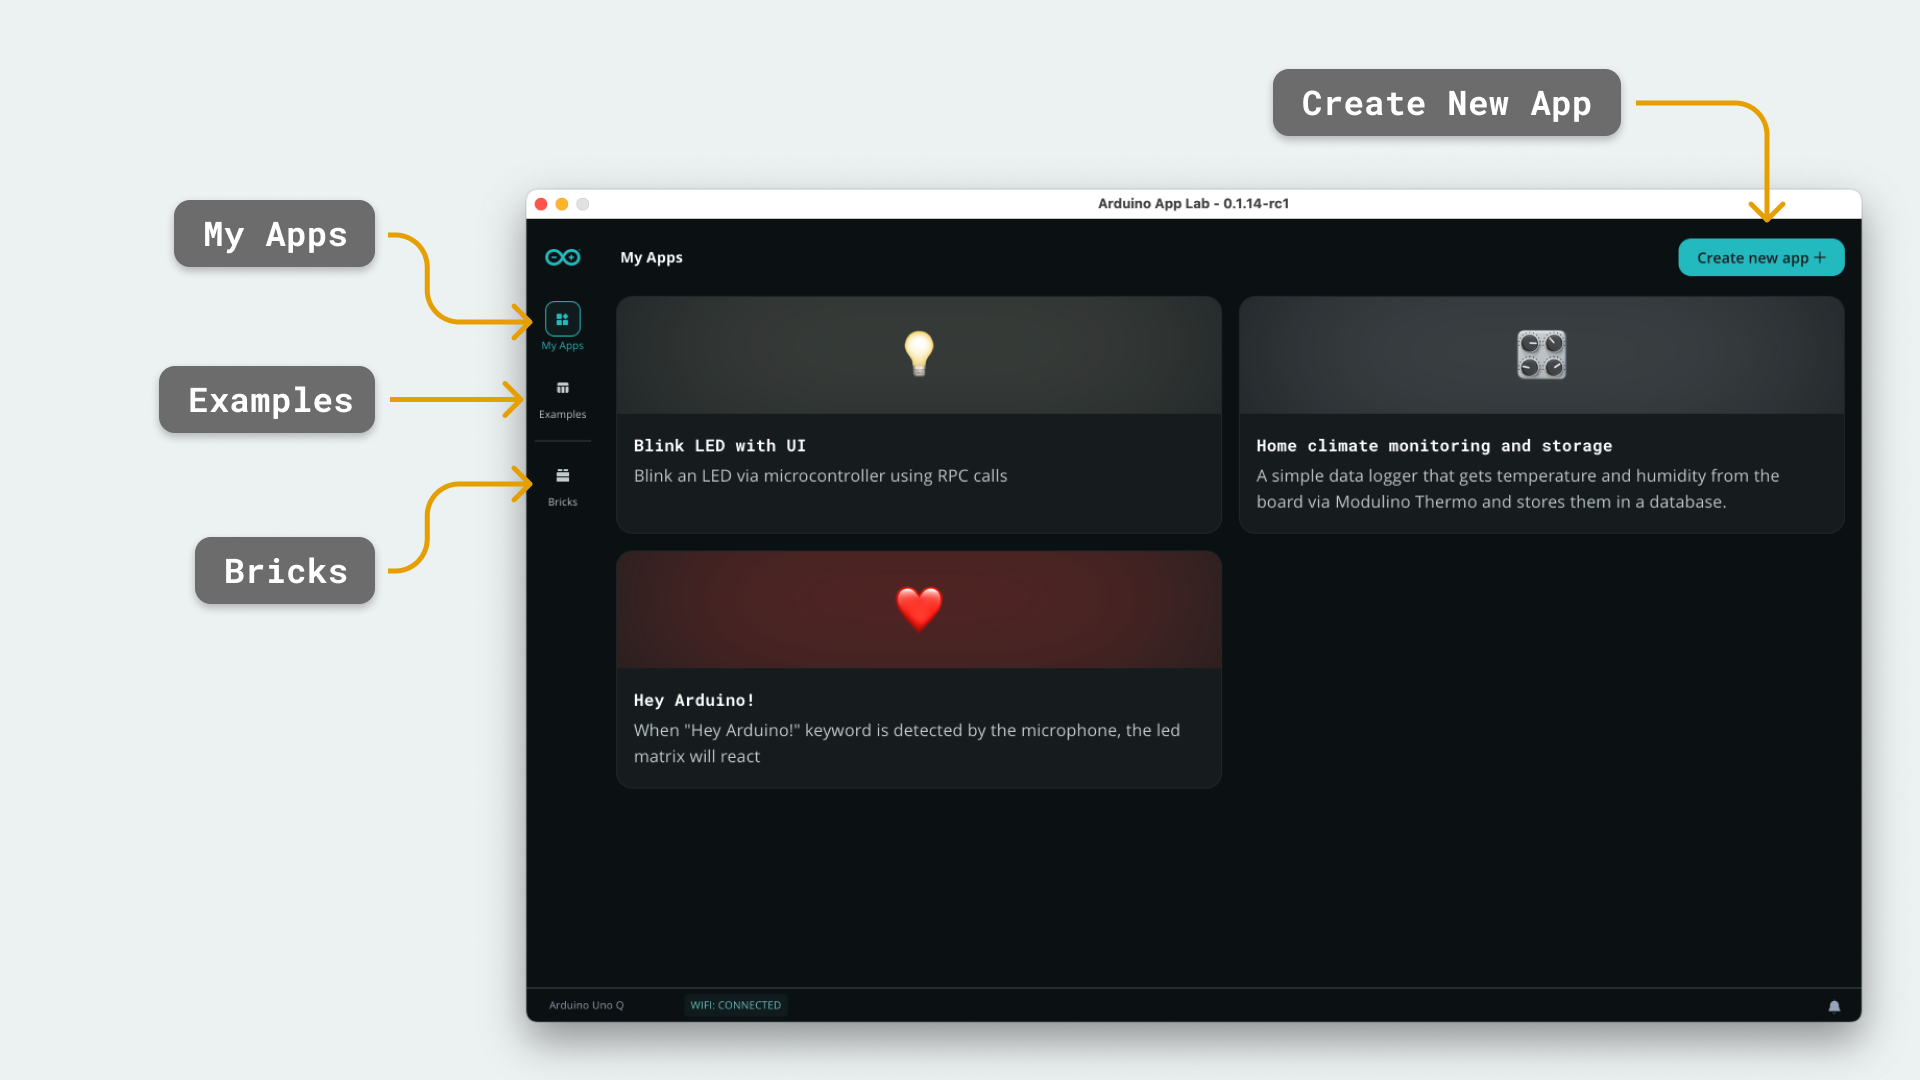
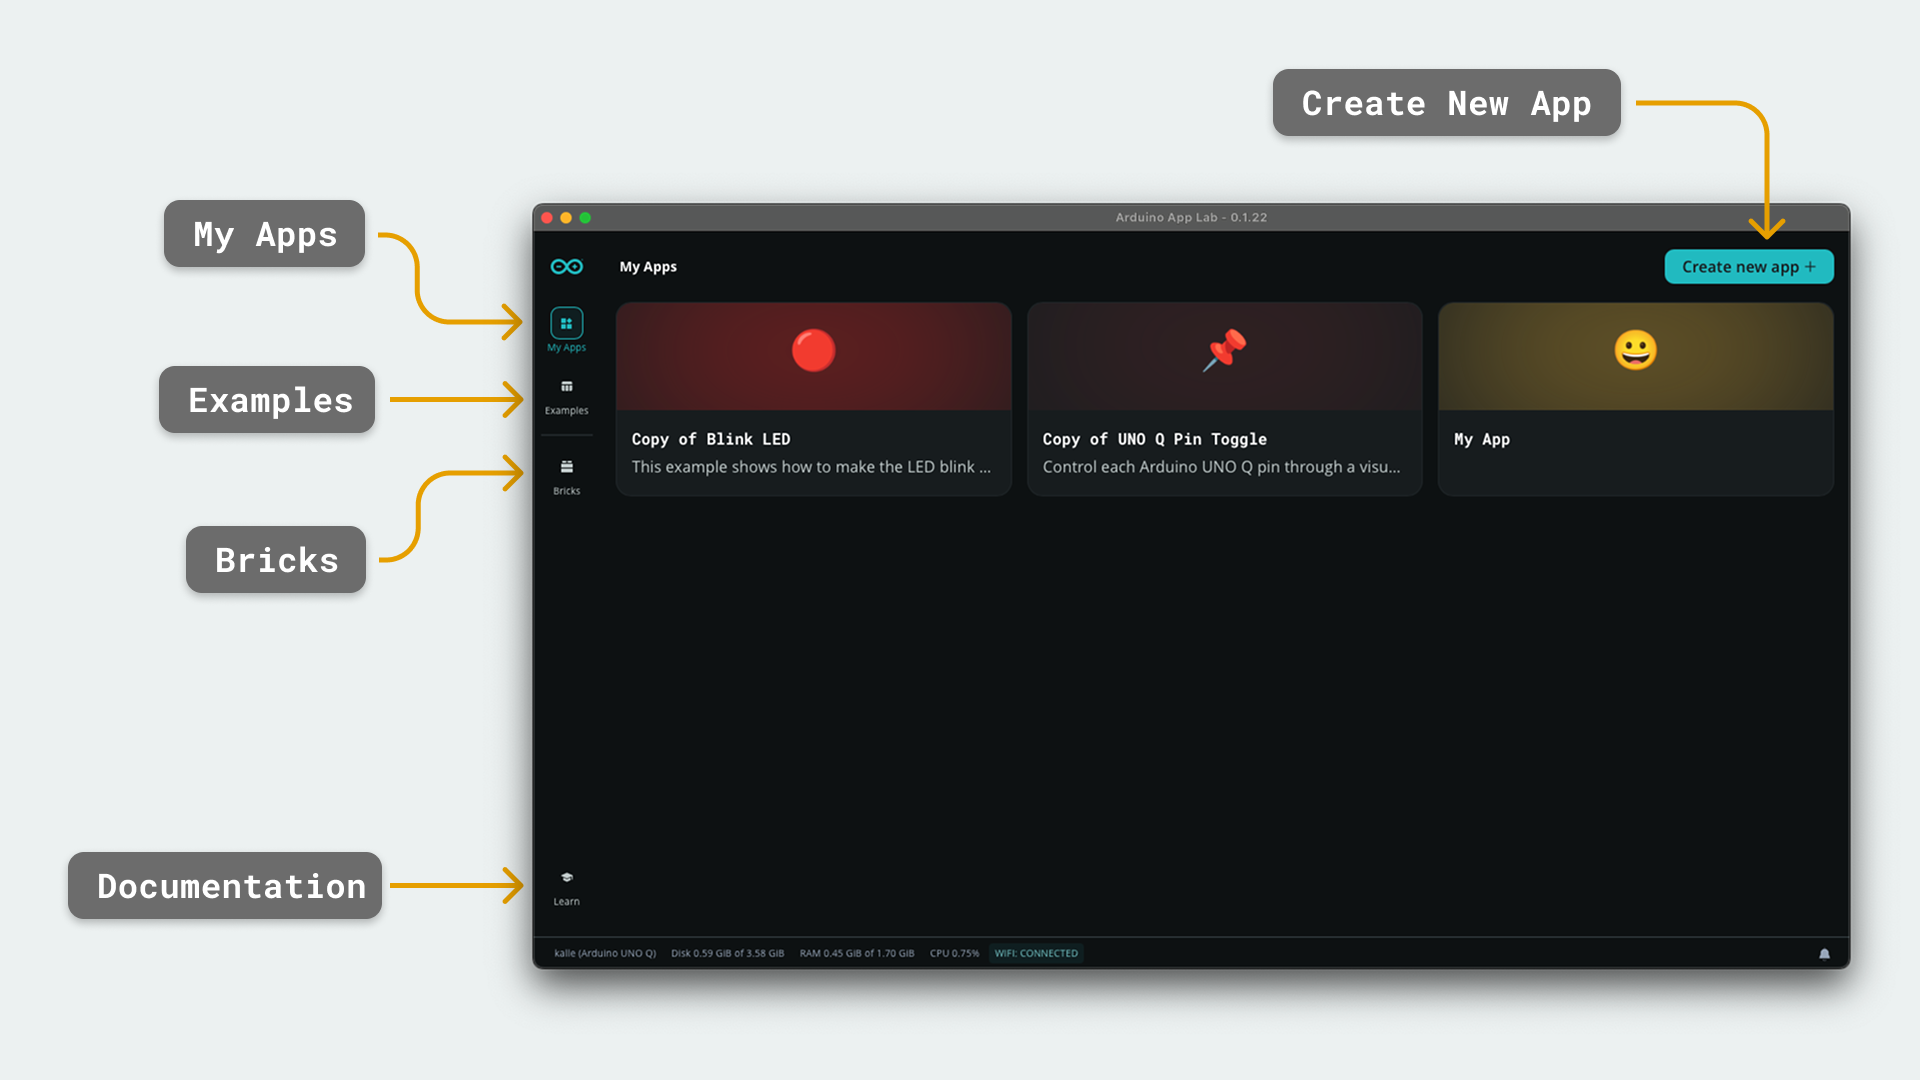
Update app lab editor

Changed region(s): [[0.0312, 0.1528, 1.0, 0.9778], [0.3125, 0.4889, 0.6562, 0.7028], [0.0938, 0.4889, 0.2188, 0.5806]]

diff --git a/content/software/app-lab/tutorials/01.getting-started/apps-lab-ide.md b/content/software/app-lab/tutorials/01.getting-started/apps-lab-ide.md
@@ -21,34 +21,96 @@ In this guide we will explore:
 
 ### Hardware
 
+- Computer (Windows/Mac/Linux)
 - [Arduino® UNO Q board](https://store.arduino.cc/products/uno-q)
 - [USB-C® cable](https://store.arduino.cc/products/usb-cable2in1-type-c)
 
-Alternatively, using the board as a [Single Board Computer (SBC Mode Preview)](/tutorials/uno-q/single-board-computer/), we will need:
-- USB-C hub
-- A display and HDMI cable
+Alternatively, using the board as a [Single Board Computer (SBC)](/tutorials/uno-q/single-board-computer/), the following is required:
+- USB-C dongle
+- A monitor and HDMI cable
 - Keyboard and mouse
 
 ### Software
 
 - [Arduino App Lab](https://www.arduino.cc/en/uno-q/)
 
+### Internet Connection
+
+The board is automatically updated when a new update is released. To download and install it, an Internet connection is required. To run Apps, an Internet connection is not required unless using examples that specifically requires it (e.g. connecting to Arduino Cloud, fetching data from external APIs).
+
 ## Install & Set Up Arduino App Lab
 
-1. Navigate to the [Arduino Software Page](https://www.arduino.cc/en/software/) and download the Arduino App Lab.
+1. Navigate to the [Arduino Software Page](https://www.arduino.cc/en/software/) and download the Arduino App Lab for your OS.
 2. Download and run the installation file.
 3. Launch the Arduino App Lab.
 4. Connect the UNO Q board to a computer.
 
-After launching the Arduino App Lab and connecting the UNO Q, you will be prompted inside the editor to configure your board's Wi-Fi®.
+After launching the Arduino App Lab and connecting the UNO Q, you will be prompted inside the editor to configure your board's Wi-Fi®, as well as setting a name & password for the board.
 
 ***You will also be prompted to login to your arduino.cc account. This is optional, but you will need to be logged in to use some of the features of the Arduino App Lab.***
 
-## Arduino App Lab Overview
+## Board Modes
+
+The board can be used in **three different modes:**
+- **Over USB (desktop mode)** - the board is connected to a personal computer (Windows / Mac / Linux), and is programmed using the Arduino App Lab desktop application.
+- **Over local Wi-Fi® network (network mode)<sup>1</sup>** - using this mode, a connection with the board is established over the local network (over Wi-Fi®), using SSH<sup>2</sup>. 
+- **Using board as an Single Board Computer (SBC mode)** - by connecting a USB dongle with a monitor, keyboard & mouse connected, the UNO Q can be used as an SBC.
+
+***<sup>1</sup>Network mode only works once the first setup is complete, which requires a USB connection. After the first setup, when launching the Arduino App Lab, select the "Network" mode.***
+
+***<sup>2</sup>The computer connecting to the board needs to be connected to the same local network.***
+
+### Desktop Mode Over USB (Default)
+
+To program your board over using **desktop mode**, follow the instructions below:
+1. Connect the board to your computer, using a USB-C® cable.
+2. Open the Arduino App Lab, wait for the board to appear<sup>3</sup>, and select the **USB** option.
+    ![Desktop mode](assets/usb-mode.png)
+
+3. You are ready to create and run Apps on your board ✅.
+
+***<sup>3</sup>The board takes some time to boot. If the animation on the LED matrix is still running, it is still booting.***
+
+### Network Mode (Over Local Wi-Fi® Network)
+
+To program your board using **network mode**, follow the instructions below:
+1. Make sure the board is setup (this is done by connecting the board over USB, see above instructions).
+2. Open the Arduino App Lab, wait for the board to appear, and select the **network** option.
+    ![Network mode](assets/network-mode.png)
+
+3. You are ready to create and run Apps on your board ✅.
+
+***Network mode makes it possible to develop and run Apps on the board, without it being connected to a computer.***
+
+***Note: if you change Wi-Fi® networks, the board will need to be connected again via USB, where you will be prompted again to connect to a new network. The board will then automatically connect to any network previously configured.***
+
+### SBC Mode (Standalone)
+
+***This mode requires a USB dongle with HDMI support.***
+
+To program your board using **SBC mode**, follow the instructions below:
+1. Connect a USB dongle to the board's USB-C® port.
+2. Connect a monitor (via HDMI), keyboard and mouse to the USB dongle.
+3. Power the USB dongle using a 5V power source (e.g. a phone charger).
+4. The complete setup should look like this:
+    ![SBC setup](assets/sbc.png)
+
+5. Wait for the board to boot. Once it is booted, a login screen will appear on the monitor.
+6. Log in using the credentials `arduino` / `arduino`, or the custom password set if the board was setup using desktop mode.
+7. Once logged in, the Arduino App Lab will automatically launch and look for updates. Once the update is finished, you are ready to create and run Apps on your board ✅.
+
+![Arduino App Lab in SBC mode](assets/app-lab-sbc.png)
+
+## Arduino App Lab UI Overview
 
 The Arduino App Lab is designed as an editor and resource manager for creating & launching Apps.
 
 ![Arduino App Lab - Overview](assets/app-overview.png)
+
+- **My Apps** - created / duplicated Apps appear here. Click into each App to edit and run them.
+- **Examples** - examples made by the Arduino® team, including audio classification, video object detection and GPIO control.
+- **Bricks** - the modular code building blocks that is used to create advanced Apps easily.
+- **Learn** - built-in documentation for learning about Arduino App Lab features.
 
 ### What are Apps?
 
@@ -63,9 +125,11 @@ Below is an example of the **Home Climate Monitoring** App, which records data f
 
 ![Home Climate Monitoring example App](assets/climate-monitoring.png)
 
-Apps can be created directly from a large set of pre-made examples, or you can create your own from scratch. Examples are accessible in the side menu, under **"Examples"**, which provides in-app documentation on how to connect any additional hardware, how to use the example, and how to understand the code setup.
+Apps can be created directly from a large set of pre-made examples, or you can create your own from scratch. Examples are accessible in the side menu, under **"Examples"**, which provides in-app documentation on how to connect any additional hardware, how to use the example, and how to understand the code setup. All examples can be duplicated and modified<sup>4</sup>.
 
 To create your own App, navigate to the **"Apps"** tab, and click on the **"Create App"** button.
+
+***<sup>4</sup>To duplicate an example, navigate to an example, click on the arrow next to the name, and select "Duplicate Example". Some examples such as the "Blinking LED from Arduino Cloud" may require additional setup, such as adding API keys.***
 
 ### What are Bricks?
 
@@ -95,7 +159,7 @@ There are three main files, each contained in a separate folder:
 
 - `sketch.ino` - hosts all the code for the **microcontroller**, written in the Arduino programming language (C++)
 - `main.py` - main entry point for the **Linux system**, running on the microprocessor, written in Python®.
-- `app.yaml` - contains metadata for an application, such as name, description and *Bricks* used.
+- `app.yaml` - contains metadata for an application, such as name, description and *Bricks* used. This file **cannot be edited**.
 
 There are other files such as the `README.md`, storing the documentation for the App, and additional files that may be part of a particular example.
 
@@ -103,7 +167,7 @@ There are other files such as the `README.md`, storing the documentation for the
 
 ![Arduino App Lab - Apps](assets/app-examples.png)
 
-To run an App, we can either start from scratch, or choose an **existing example**. For first-time users, we recommend using an existing example for a better understanding of the structure.
+To run an App, you can either start from scratch, or choose an **existing example**. For first-time users, we recommend using an existing example for a better understanding of the structure.
 
 ### Run Example Apps
 
@@ -112,18 +176,18 @@ To run an example App, follow the steps below:
 1. Select the example you want to run on your UNO Q board from the **"Example"** tab, located in the left side menu.
 2. Click on the **"Run"** button in the top right corner.
 3. Wait for the loading process to finish.
-4. Once start-up is complete, we can start interacting with the App.
+4. Once start-up is complete, you can start interacting with the App.
 
 ![Launching an app.](assets/launch-app.png)
 
 Each official example provides a detailed documentation provided in the `readme.md` file inside of the example App.
 
-***Note that every time we run an App, the sketch is compiled, and the Python® application is launched. Depending on the complexity of the application we run, this process may take up to a minute.***
+***Note that every time an App is launched, the sketch is compiled, and the Python® application is launched. Depending on the complexity of the application, this process may take up to a minute.***
 
 ### How do I know my App is Running?
 
-Once an App is launched, we can see the status of the App in the **Console**. There are three tabs available:
-- **Start-up** - outputs the logs from the start-up process. Here we can see information regarding compilation for the microcontroller and deployment of the Python® application on the Linux system.
+Once an App is launched, the status of the App is available in the **Console**. There are three tabs available:
+- **Start-up** - outputs the logs from the start-up process. Here you will find information regarding compilation for the microcontroller and deployment of the Python® application on the Linux system.
 - **Main (Python®)** - view the logs from the Python® application (`print()`) 
 - **Sketch (Microcontroller)** - view serial data from the sketch (`Serial.println()`)
 
@@ -133,17 +197,17 @@ Once an App is launched, we can see the status of the App in the **Console**. Th
 
 ### Create a New App
 
-We can create a new App, by clicking on the **"Create New App"** on the main page.
+To create a new App, click on the **"Create New App"** on the main page.
 
-When creating a new App from scratch, we will need to write the programs from scratch as well as importing the Bricks manually.
+When creating a new App from scratch, the `sketch.ino` and `main.py` will need to be written manually,  and Brick will need to be imported manually.
 
 To add a Brick, click on the **"Add Bricks"** button, and select the Brick you'd like to use. The Brick can now be used in your `main.py` file.
 
 ### Duplicate an Existing Example
 
-Instead of creating a new App from scratch, we can also **duplicate an existing example**. This is done by selecting an available example in the **"Examples"** section, and duplicate it:
+Instead of creating a new App from scratch, an example can also be **duplicated**. This is done by selecting an available example in the **"Examples"** section, and duplicate it:
 
-![](assets/cloud-blink-duplicate.png)
+![Duplicating an example](assets/cloud-blink-duplicate.png)
 
 ## How Apps Function
 
@@ -170,11 +234,11 @@ It is important that `App.run()` is placed at the end of the `main.py` file, as 
 ### Bridge Tool
 
 One of the most important tools when developing Apps is the **Bridge** tool. The Bridge tool makes it possible to communicate between the Microcontroller and Linux system, through an easy-to-use API with three core functionalities:
-- **Provide** - we *provide* a service that can be *called* upon.
+- **Provide** - a service is *provided* that can be *called* upon.
 - **Call** - we *call* a service that is *provided*.
 - **Notify** - we *notify* the other side with some parameters (a one way push of data)
 
-In simple terms, if we want to send data from the microcontroller to the Linux system, we would implement a provider function that we can then call from the Linux system, or use the notify function to push data from one system to the other.
+In simple terms, if you want to send data from the microcontroller to the Linux system, we would implement a provider function that we can then call from the Linux system, or use the notify function to push data from one system to the other.
 
 Here's a very quick example, demonstrating sending data from the sketch to the Python® application.
 
